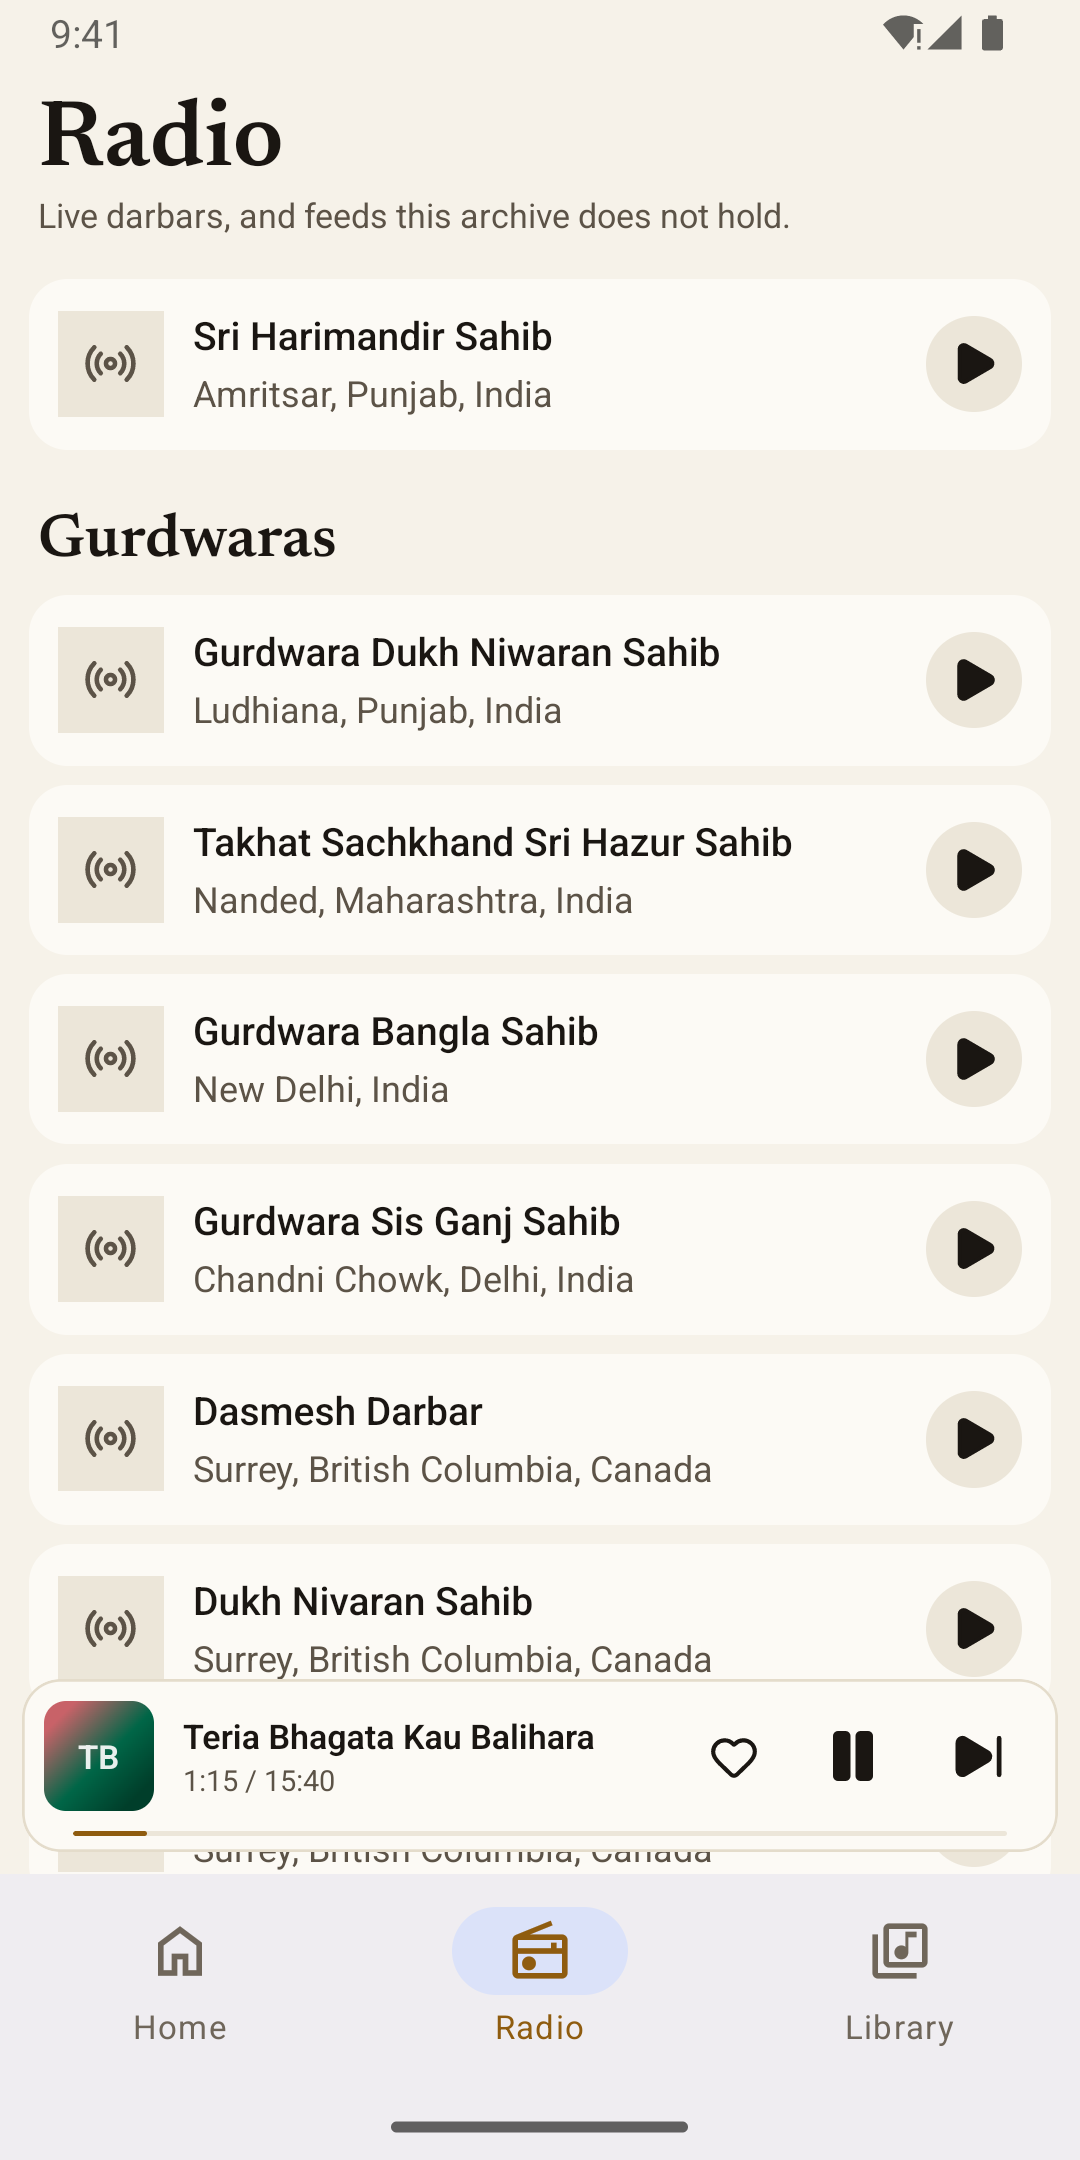
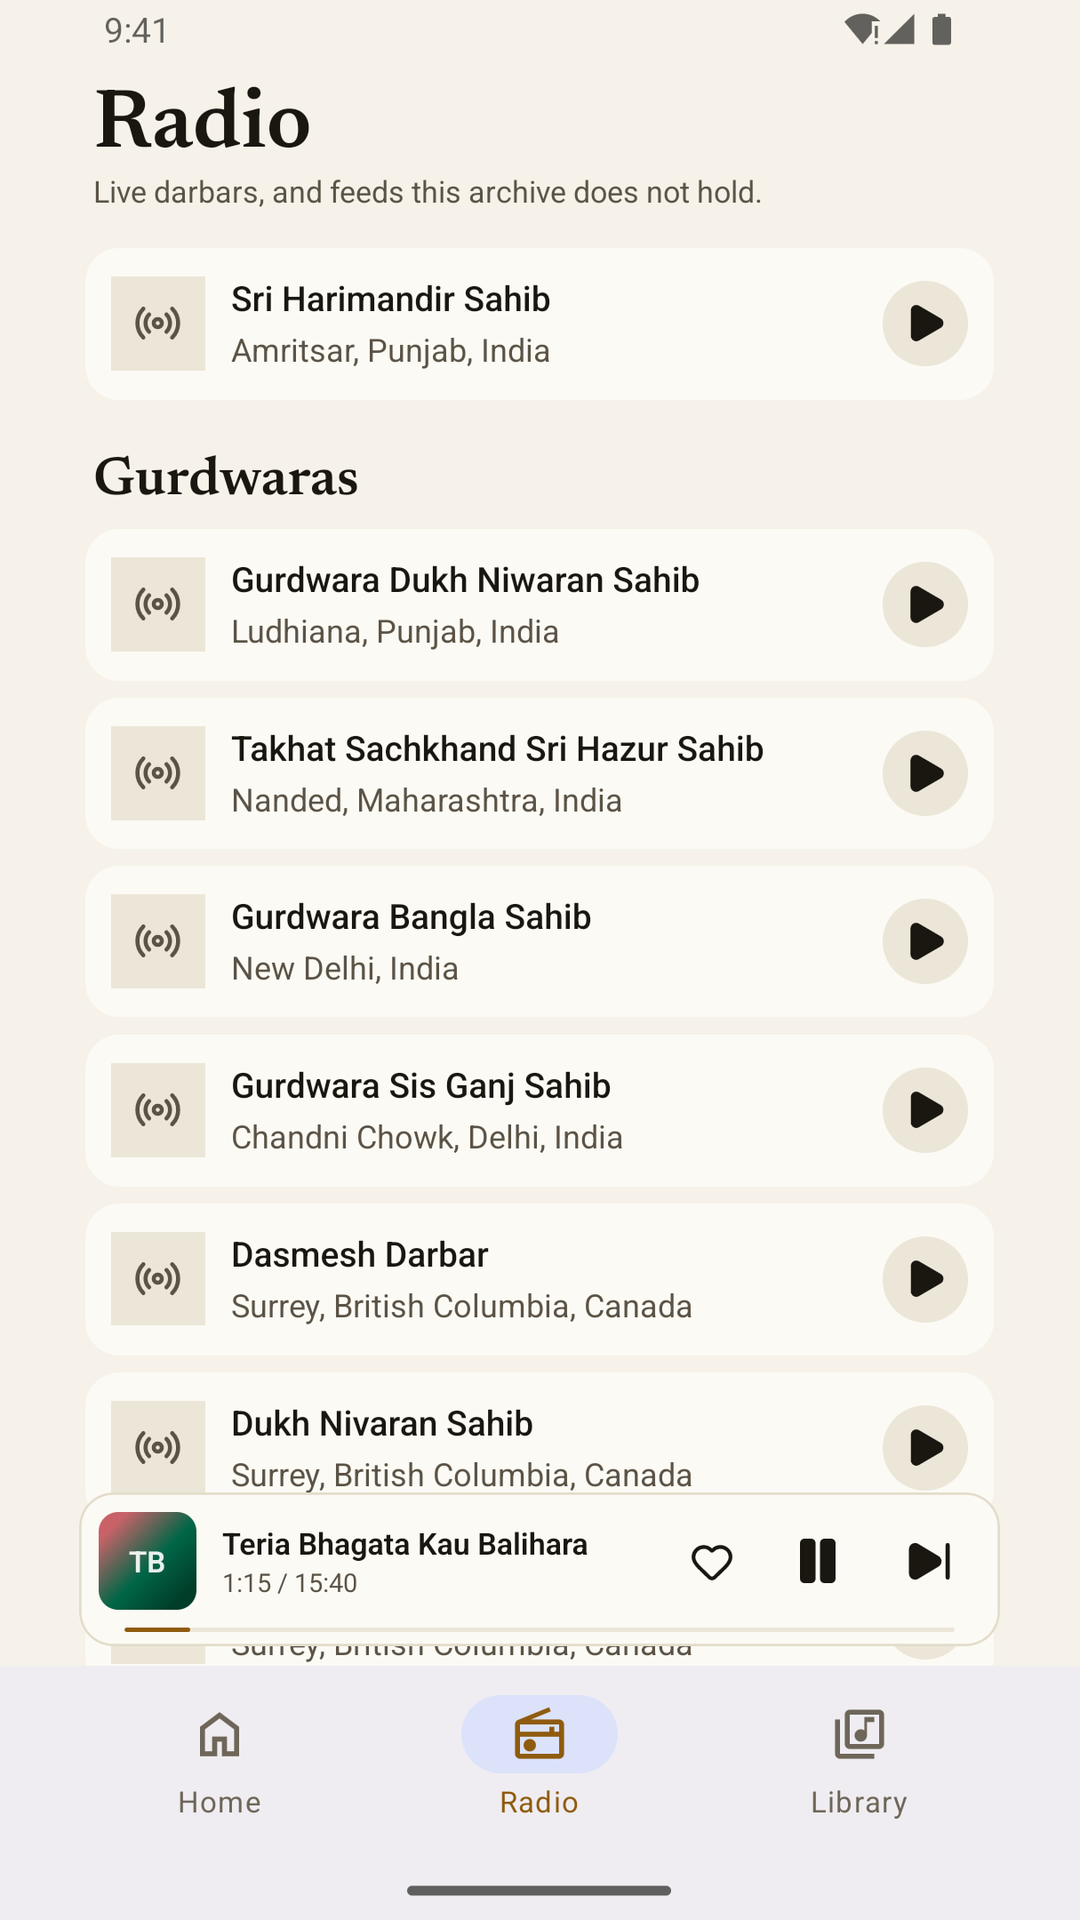
mobile: store screenshots at the sizes the stores accept (iPhone 1206×2622, Play phone 9:16) and a Play feature graphic

diff --git a/apps/mobile/store/listing.md b/apps/mobile/store/listing.md
@@ -58,9 +58,12 @@ mixed within a set:
 4. A ragi's page
 5. Radio
 
-Apple needs 6.9" iPhone (1320×2868); iPad (13", 2064×2752) now that
-`supportsTablet` is on. Play needs at least two phone screenshots; its longest
-side may be at most twice the shortest, hence 1080×2160.
+Apple: iPhone at 1206×2622 (one of the sizes App Store Connect accepted when
+1320×2868 was rejected; the 6.9" captures are scaled down) and iPad (13",
+2064×2752) now that `supportsTablet` is on. No alpha channel in either — Apple
+rejects it. Play needs at least two phone screenshots at 9:16, 1080×1920, or it
+asks to crop; the 1080×2160 emulator captures are widened with their own edge
+pixels, then scaled.
 
 The current set is in `store/screenshots/` (`ios-iphone`, `ios-ipad`,
 `android-phone`), numbered in the order above, taken in light mode on the local
